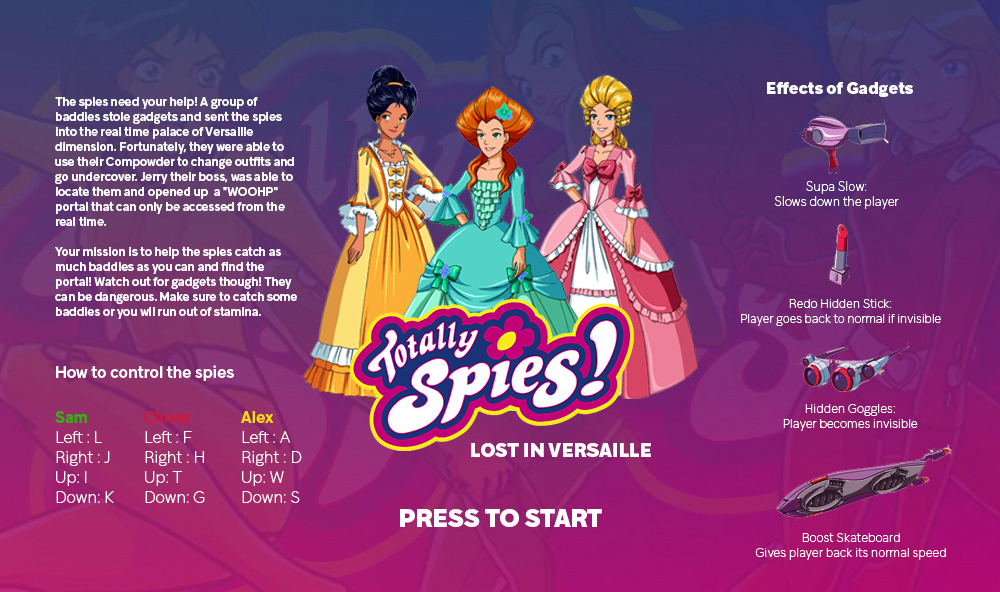
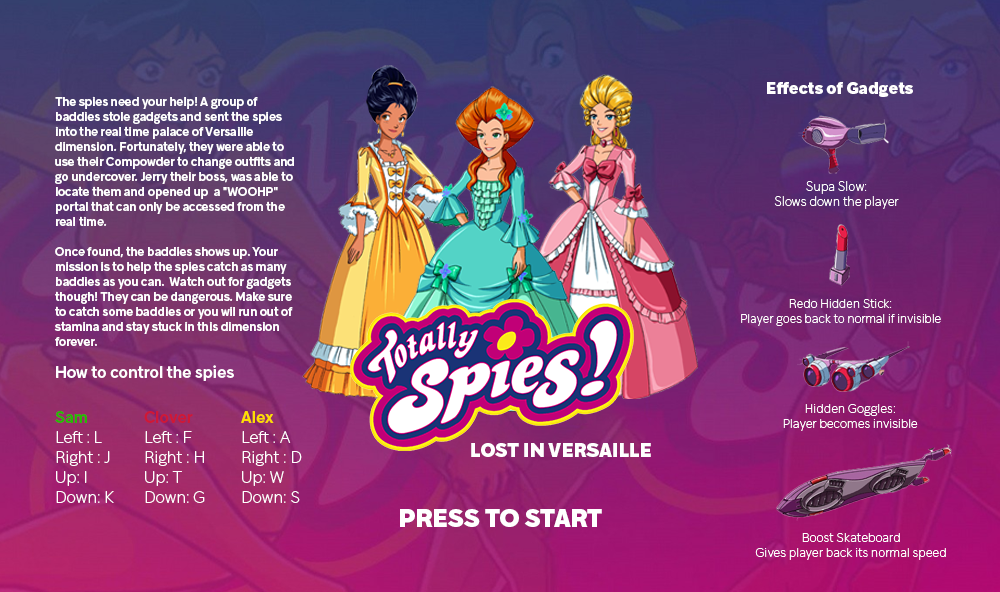
P2: Added the last new class (The BoostSkateboard Gadget). Just like the Redo Hidden Stick it brings back the player to its normal state (For this one is speed). I modified to intro screen to add more instructions too.

Changed region(s): [[0.031, 0.3953, 0.31, 0.6081]]

diff --git a/projects/project_2/js/BoostSkateboard.js b/projects/project_2/js/BoostSkateboard.js
@@ -1,49 +1,51 @@
 // Prey
 //
-// A class that represents one of the stolen gadgets called "Hidden Redo Lipstick"
-//If a player touches this gadget they become visible again
+// A class that represents one of the stolen gadgets called "Boost Skateboard"
+//If a player touches this gadget it will bring back their speed if they are slown down by the Boost Skateboard gadget
 //this gadget uses the noise function to go around randomly
-//uses alpha to become transparent
 
-class StickRedo {
+class BoostSkateboard {
+
   // constructor
   //
-  // Sets the initial values for the stick properties
+  // Sets the initial values for the Dryer Gadget's properties
   // Either sets default values or uses the arguments provided
   constructor(x, y, speed, radius, scale, image) { //added scale in the constructor to be able to modifiy the scaling each of my gadgets
     // Position
-    this.x = random(0, windowWidth);
-    this.y = random(0, windowWidth);
+    this.x = x;
+    this.y = y;
     // Velocity and speed
     this.vx = 0;
     this.vy = 0;
     this.speed = speed;
     // Time properties for noise() function
-    this.tx = random(0, 500); // To make x and y noise different
-    this.ty = random(0, 500); // we use random starting values
-    // Display properties
+    this.tx = random(0, 1000); // To make x and y noise different
+    this.ty = random(0, 1000); // we use random starting values
+    // Health properties
     this.radius = radius;
+    this.speed = speed; //adding the gadget speed
+    // Display properties
     this.scale = scale;
-    this.image = image; // To display the stick image (its one of the gadgets)
+    this.image = image; // display the Boost Skateboard
   }
 
-  // This new class makes the player fade away by reducing the spy's tint (alpha).
-  visibleNow(spy) {
+  // If player touches this gadget they will be slown down
+  backSpeed(spy) {
     let d = dist(this.x, this.y, spy.x, spy.y);
-    // Check if theres an overlap btw the spies and the gadget
+    // Check if the gadget and spy overlaps
     if (d < this.radius + spy.radius) {
-      spy.alpha = spy.alpha - 1;
-      console.log("got you");
-      if (spy.alpha > 0) {
-        spy.alpha = 255;
+      spy.speed = spy.speed - 0.1; // Makes the spies slow down
+      if (spy.speed > 0) {
+        console.log("you brought me back to life");
+        spy.speed = 10; //that was their initial speed
       }
     }
   }
 
   // move
   //
-  // Sets velocity based on the noise() function and the gadget's speed.
-  // Moves based on the resulting velocity and handles wrapping.
+  // Sets velocity based on the noise() function and the Prey's speed
+  // Moves based on the resulting velocity and handles wrapping
   move() {
     // Set velocity via noise()
     this.vx = map(noise(this.tx), 0, 1, -this.speed, this.speed);
@@ -60,7 +62,8 @@ class StickRedo {
 
   // handleWrapping
   //
-  // Checks if the gadget has gone off the canvas and wraps it to the other side if it did.
+  // Checks if the prey has gone off the canvas and
+  // wraps it to the other side if so
   handleWrapping() {
     // Off the left or right
     if (this.x < 0) {
@@ -78,17 +81,20 @@ class StickRedo {
 
   // display
   //
-  // Display the gadget (Hidden Goggles)
+  // Draw the prey as an ellipse on the canvas
+  // with a radius the same size as its current health.
   display() {
     push();
     noStroke();
+    //added scaling functionality for my image
     image(this.image, this.x, this.y, this.image.width * this.scale, this.image.height * this.scale);
     pop();
   }
 
   // reset
   //
-  // Set the position to a random location.
+  // Set the position to a random location and reset health
+  // and radius back to default
   reset() {
     // Random position
     this.x = random(0, width);

diff --git a/projects/project_2/js/script.js b/projects/project_2/js/script.js
@@ -60,10 +60,12 @@ let paintingBackground;
 let slowDryer;
 let hiddenGoggles;
 let redoStick;
+let boostSkateboard;
 //display images for Gadgets
 let slowDryerImage;
 let hiddenGogglesImage;
 let redoStickImage;
+let boostSkateboardImage;
 
 //Sound variables
 //main music
@@ -109,6 +111,7 @@ function preload() {
   slowDryerImage = loadImage("assets/images/slowDryer.png");
   hiddenGogglesImage = loadImage("assets/images/hiddenGoggles.png");
   redoStickImage = loadImage("assets/images/redoLip.png");
+  boostSkateboardImage = loadImage("assets/images/boostSkateboard.png");
 
   //loading Music
   mainMusic = loadSound('./assets/sounds/tsHereWeGo.mp3'); //main bg music
@@ -141,9 +144,10 @@ function setup() {
   //place our baddies into an array
   characterBaddies = [baddieFlowerCharacter, baddieGangsterCharacter, baddieExplorerCharacter, baddieDollCharacter, baddieClownCharacter, baddieFashionistaCharacter, baddieRichCharacter, baddiePrinceCharacter];
   //set all the gadgets
-  hiddenGoggles = new HiddenGoggles(300, 300, 10, 100, 0.7, hiddenGogglesImage); // the o.7 sets the scale that we added in the constructor
-  slowDryer = new DryerGadget(300, 300, 10, 100, 0.7, slowDryerImage); // the o.7 sets the scale that we added in the constructor
-  redoStick = new StickRedo(300, 300, 10, 100, 0.5, redoStickImage); // the o.5 sets the scale that we added in the constructor
+  hiddenGoggles = new HiddenGoggles(300, 300, 10, 100, 0.7, hiddenGogglesImage); // the 0.7 sets the scale that we added in the constructor
+  slowDryer = new DryerGadget(300, 300, 10, 100, 0.7, slowDryerImage); // the 0.7 sets the scale that we added in the constructor
+  redoStick = new StickRedo(300, 300, 10, 100, 0.5, redoStickImage); // the 0.5 sets the scale that we added in the constructor
+  boostSkateboard = new BoostSkateboard(300, 300, 10, 100, 0.7, boostSkateboardImage); // the 0.7 sets the scale that we added in the constructor
 }
 
 // draw()
@@ -189,8 +193,9 @@ function draw() {
       playersSpies[i].move();
       playersSpies[i].display();
       playersSpies[i].handleInput();
-      redoStick.visibleNow(playersSpies[i]);
-      //    slowDryer.slowDown(playersSpies[i]);
+      //redoStick.visibleNow(playersSpies[i]);
+      boostSkateboard.backSpeed(playersSpies[i]);
+      slowDryer.slowDown(playersSpies[i]);
       //hiddenGoggles.hiddenNow(playersSpies[i]);
       //playersSpies[i].handleEating(baddieFlowerCharacter);
       //playersSpies[i].handleEating(baddieGangsterCharacter);
@@ -210,6 +215,11 @@ function draw() {
     //display and move third class
     redoStick.move();
     redoStick.display();
+
+    //display and move fourth class
+    boostSkateboard.move();
+    boostSkateboard.display();
+
     // Arrays for the baddie'move, display
     for (let i = 0; i < characterBaddies.length; i++) {
       characterBaddies[i].move();
@@ -265,6 +275,7 @@ function resetGame() {
   slowDryer.reset();
   hiddenGoggles.reset();
   redoStick.reset();
+  boostSkateboard.reset();
   //has the click sounds
   clickButton.play();
   //loops the music once again

diff --git a/projects/project_2/index.html b/projects/project_2/index.html
@@ -13,6 +13,7 @@
     <script src="js/libraries/p5.dom.min.js"></script>
 
     <!-- My script(s) -->
+    <script src="js/BoostSkateboard.js"></script>
     <script src="js/StickRedo.js"></script>
     <script src="js/HiddenGoggles.js"></script>
     <script src="js/DryerGadget.js"></script>
